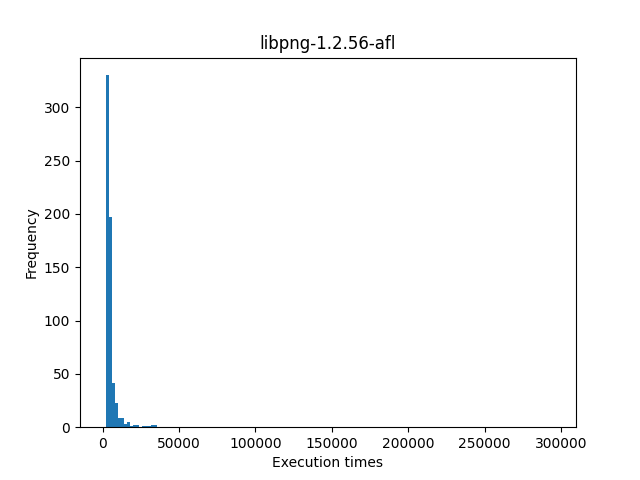
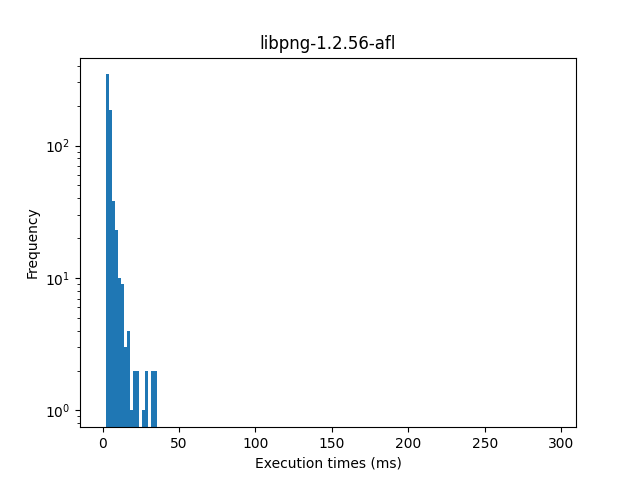
Update the histograms

diff --git a/Experiments/generate_plots.py b/Experiments/generate_plots.py
@@ -14,9 +14,13 @@ def load_data(json_file='parsed_data_nobucket.json'):
 def find_histogram(lst, mn, mx, title):
     # arr = np.array(lst)
     plt.clf()
+    lst=[l//1000 for l in lst]
+    mx //= 1000
+    mn //= 1000
     plt.hist(lst, range=[mn, mx], bins=150)
-    plt.xlabel('Execution times')
+    plt.xlabel('Execution times (ms)')
     plt.ylabel('Frequency')
+    plt.yscale('log')
     plt.title(title)
     plt.savefig(os.path.join('execs', title+'.png'))
 
